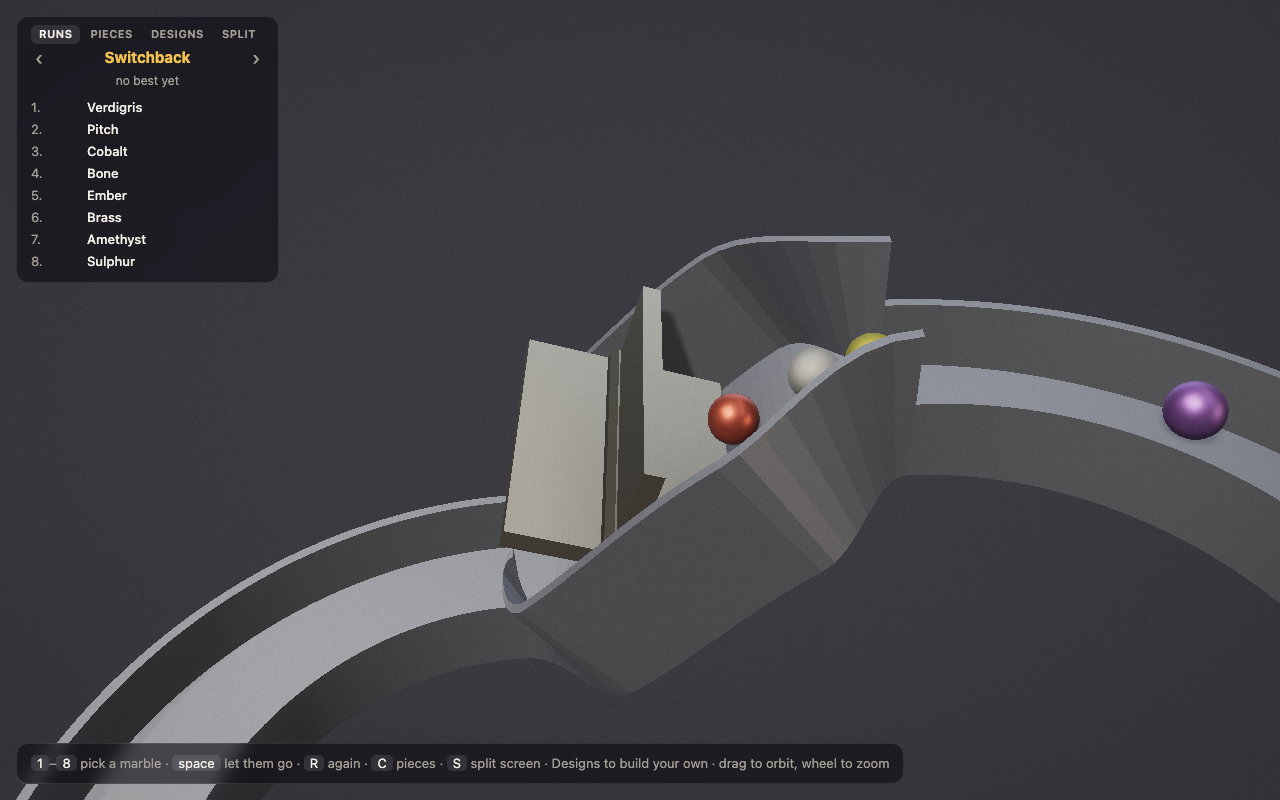
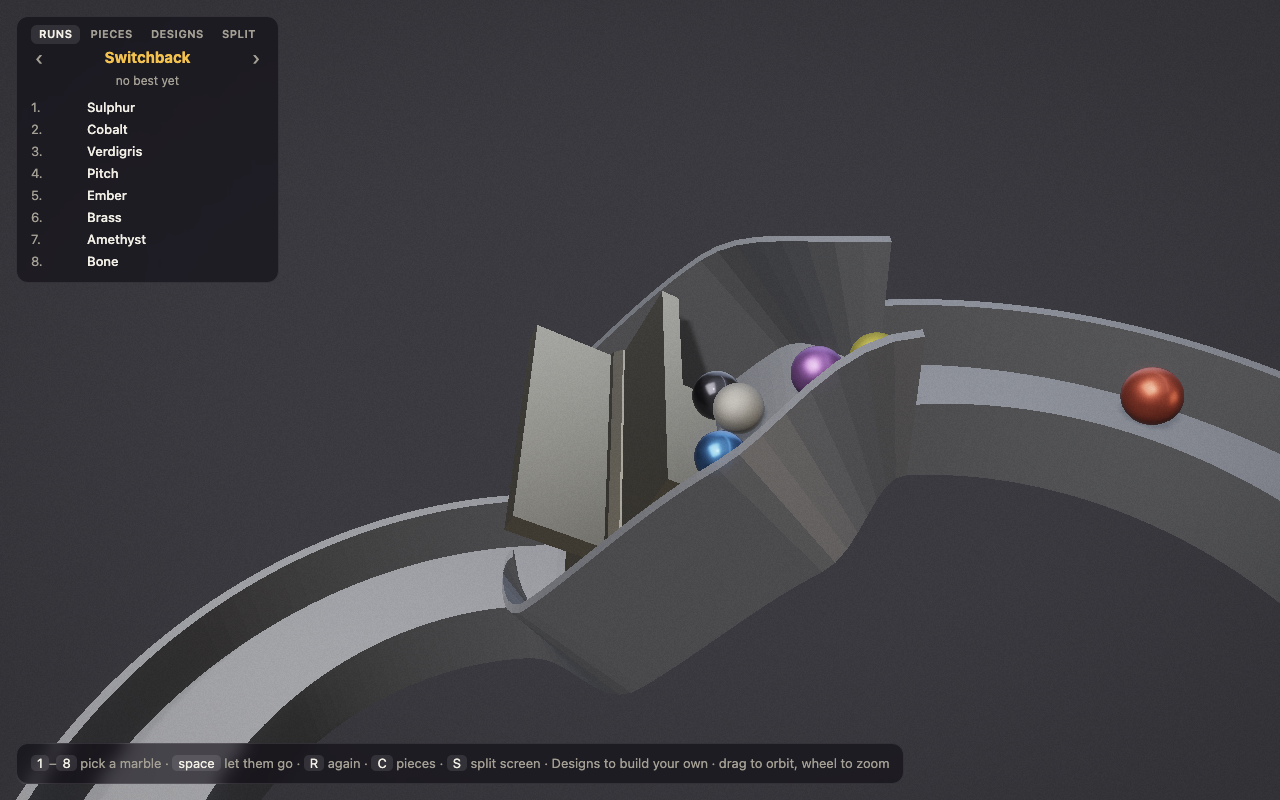
Switchback and the Stress Test are re-laid so nothing on them lets the field by unchanged, and bumps boards are held to that too
Every run was a race and not a procession under physics, but two runs had a
peg board that kept the order it was handed over the judged runs' 0.85.
Switchback's second board, at 0.93: the field came off the bend before it in
single file along the outside wall, and identical balls in one line strike
the cones alike and leave in the same order. It is a sweeper now, whose
paddle crosses the stream at its own moment, and keeps 0.72. The Stress
Test's late peg and bumps boards, at 0.93 to 1.00: the field reaches them
strung out over seconds and passes each one ball at a time. They are plain
wide shallows now, and its bumps and pegs stand at the head of the run,
where the field is still bunched off the gate, keeping 0.69 and 0.58; there
is room there for two, and the sweeper, on three other runs, gave way to
the bumps, on no other.

The judged rule counts mounds as well as pegs, moving parts and funnels,
which is what showed the late bumps boards reading 1.00. Both runs take new
ids (switchback-4, stress-test-3), since their races changed, and the pace
baseline is written for them: Switchback 4.97 -> 4.74 min, the Stress Test
24.43 -> 21.75, both within the gate's fifth of the old figure. The wheel
picture on Switchback was written again and looked at: a second moving part
draws the wheel's phase differently from the seed.

Tried and not taken: changing the rule to count only balls on a board at
the same moment, which still read Switchback's board at 0.93, and bumps in
[…]

diff --git a/src/runs.ts b/src/runs.ts
@@ -104,10 +104,14 @@ export const LEAP: Run = {
 
 /**
  * The long one: down the hill in drops and ramps, turning back on itself
- * again and again, over two peg boards, under a wheel, and round a spiral.
+ * again and again, over a peg board, under a wheel, round a spiral and
+ * across a sweeper. The sweeper was a second peg board, which the field
+ * reached in single file along the outside of the bend before it, and
+ * identical balls in one line strike cones alike: it kept their order at
+ * 0.93. A paddle swinging across the stream at its own moment keeps 0.72.
  */
 export const SWITCHBACK: Run = {
-  id: 'switchback-3',
+  id: 'switchback-4',
   name: 'Switchback',
   pieces: [
     { kind: 'start', x: 0, y: 0, z: 0, facing: 0 },
@@ -125,7 +129,7 @@ export const SWITCHBACK: Run = {
     { kind: 'ramp', x: 5, y: -7, z: -9, facing: 3 },
     { kind: 'spiralRight', x: 5, y: -8, z: -10, facing: 3 },
     { kind: 'curveRight', x: 5, y: -8, z: -12, facing: 3 },
-    { kind: 'pegs', x: 4, y: -9, z: -12, facing: 2 },
+    { kind: 'sweeper', x: 4, y: -9, z: -12, facing: 2 },
     { kind: 'curveLeft', x: 2, y: -9, z: -13, facing: 2 },
     { kind: 'ramp', x: 1, y: -10, z: -13, facing: 3 },
     { kind: 'straight', x: 1, y: -11, z: -14, facing: 3 },
@@ -186,28 +190,30 @@ export const CROSSING: Run = {
 
 /**
  * The stress test: a hundred pieces, `MAX_PIECES`'s own ceiling, and every
- * kind of piece the catalog has, at least once. Folded into a box with
+ * kind of piece the catalog has but the sweeper. Folded into a box with
  * turns rather than run straight out — laid out end to end the first time,
  * it needed a camera three hundred units further back than any other run
  * and stood a sliver in the corner of the screen for it — so what carries
  * the length is depth, one level further down each turn, not width.
  *
- * Every piece with something in the way to break the field up sits early,
- * while the field is still off the gate and fresh, save the pegboards
- * scattered through the long middle for the fold's own sake: a splitter
- * and a joiner hand two equal lanes back on in lock step, exactly as evenly
- * spaced as they went in, and the first piece with something in the way to
- * meet that field reads as though it did nothing, whatever it is — moved
- * once, tried right after the joiner and failing there however it was
- * built around, not tuned in place. The pegboards sit before the fork
- * instead, and nothing stands between the joiner and the cup.
+ * Every piece with something in the way sits early, while the field is
+ * still off the gate and bunched: a board met by a field strung out over
+ * seconds is passed one ball at a time, and keeps the order it was handed.
+ * The peg and bumps boards once scattered through the long middle kept it
+ * at 0.93 to 1.00, and are plain wide shallows now. The two early boards,
+ * the bumps and the pegs, were the sweeper and the pegs, and there is room
+ * for only two while the field is bunched: the sweeper is on three other
+ * runs, and bumps on no other. Nothing with something in the way stands
+ * after the fork either: a splitter and a joiner hand two equal lanes back
+ * on in lock step, and the first thing to meet that field read as though it
+ * did nothing, whatever it was.
  */
 export const STRESS: Run = {
-  id: 'stress-test-2',
+  id: 'stress-test-3',
   name: 'Stress Test',
   pieces: [
     { kind: 'start', x: 0, y: 0, z: 0, facing: 0 },
-    { kind: 'sweeper', x: 1, y: 0, z: -1, facing: 0 },
+    { kind: 'bumps', x: 1, y: 0, z: -1, facing: 0 },
     { kind: 'curveRight', x: 3, y: 0, z: -2, facing: 0 },
     { kind: 'pegs', x: 4, y: -1, z: -2, facing: 3 },
     { kind: 'curveLeft', x: 4, y: -3, z: -3, facing: 3 },
@@ -232,57 +238,57 @@ export const STRESS: Run = {
     { kind: 'narrow', x: 13, y: -14, z: -18, facing: 3 },
     { kind: 'curveRight', x: 13, y: -16, z: -19, facing: 3 },
     { kind: 'drop', x: 12, y: -17, z: -19, facing: 2 },
-    { kind: 'pegs', x: 11, y: -17, z: -21, facing: 2 },
+    { kind: 'shallowWide', x: 11, y: -17, z: -21, facing: 2 },
     { kind: 'drop', x: 9, y: -17, z: -22, facing: 2 },
     { kind: 'curveRight', x: 8, y: -17, z: -24, facing: 2 },
     { kind: 'curveRight', x: 7, y: -16, z: -24, facing: 1 },
     { kind: 'ramp', x: 8, y: -15, z: -24, facing: 0 },
-    { kind: 'bumps', x: 9, y: -15, z: -25, facing: 0 },
+    { kind: 'shallowWide', x: 9, y: -15, z: -25, facing: 0 },
     { kind: 'ramp', x: 11, y: -15, z: -26, facing: 0 },
     { kind: 'curveLeft', x: 12, y: -15, z: -27, facing: 0 },
     { kind: 'curveLeft', x: 13, y: -14, z: -27, facing: 1 },
     { kind: 'drop', x: 12, y: -13, z: -27, facing: 2 },
-    { kind: 'bumps', x: 11, y: -13, z: -29, facing: 2 },
+    { kind: 'shallowWide', x: 11, y: -13, z: -29, facing: 2 },
     { kind: 'drop', x: 9, y: -13, z: -30, facing: 2 },
     { kind: 'curveRight', x: 8, y: -13, z: -32, facing: 2 },
     { kind: 'curveRight', x: 7, y: -12, z: -32, facing: 1 },
     { kind: 'ramp', x: 8, y: -11, z: -32, facing: 0 },
-    { kind: 'pegs', x: 9, y: -11, z: -33, facing: 0 },
+    { kind: 'shallowWide', x: 9, y: -11, z: -33, facing: 0 },
     { kind: 'ramp', x: 11, y: -11, z: -34, facing: 0 },
     { kind: 'curveLeft', x: 12, y: -11, z: -35, facing: 0 },
     { kind: 'curveLeft', x: 13, y: -10, z: -35, facing: 1 },
     { kind: 'drop', x: 12, y: -9, z: -35, facing: 2 },
-    { kind: 'pegs', x: 11, y: -9, z: -37, facing: 2 },
+    { kind: 'shallowWide', x: 11, y: -9, z: -37, facing: 2 },
     { kind: 'drop', x: 9, y: -9, z: -38, facing: 2 },
     { kind: 'curveRight', x: 8, y: -9, z: -40, facing: 2 },
     { kind: 'curveRight', x: 7, y: -8, z: -40, facing: 1 },
     { kind: 'ramp', x: 8, y: -7, z: -40, facing: 0 },
-    { kind: 'bumps', x: 9, y: -7, z: -41, facing: 0 },
+    { kind: 'shallowWide', x: 9, y: -7, z: -41, facing: 0 },
     { kind: 'ramp', x: 11, y: -7, z: -42, facing: 0 },
     { kind: 'curveLeft', x: 12, y: -7, z: -43, facing: 0 },
     { kind: 'curveLeft', x: 13, y: -6, z: -43, facing: 1 },
     { kind: 'drop', x: 12, y: -5, z: -43, facing: 2 },
-    { kind: 'bumps', x: 11, y: -5, z: -45, facing: 2 },
+    { kind: 'shallowWide', x: 11, y: -5, z: -45, facing: 2 },
     { kind: 'drop', x: 9, y: -5, z: -46, facing: 2 },
     { kind: 'curveRight', x: 8, y: -5, z: -48, facing: 2 },
     { kind: 'curveRight', x: 7, y: -4, z: -48, facing: 1 },
     { kind: 'ramp', x: 8, y: -3, z: -48, facing: 0 },
-    { kind: 'pegs', x: 9, y: -3, z: -49, facing: 0 },
+    { kind: 'shallowWide', x: 9, y: -3, z: -49, facing: 0 },
     { kind: 'ramp', x: 11, y: -3, z: -50, facing: 0 },
     { kind: 'curveLeft', x: 12, y: -3, z: -51, facing: 0 },
     { kind: 'curveLeft', x: 13, y: -2, z: -51, facing: 1 },
     { kind: 'drop', x: 12, y: -1, z: -51, facing: 2 },
-    { kind: 'pegs', x: 11, y: -1, z: -53, facing: 2 },
+    { kind: 'shallowWide', x: 11, y: -1, z: -53, facing: 2 },
     { kind: 'drop', x: 9, y: -1, z: -54, facing: 2 },
     { kind: 'curveRight', x: 8, y: -1, z: -56, facing: 2 },
     { kind: 'curveRight', x: 7, y: 0, z: -56, facing: 1 },
     { kind: 'ramp', x: 8, y: 1, z: -56, facing: 0 },
-    { kind: 'bumps', x: 9, y: 1, z: -57, facing: 0 },
+    { kind: 'shallowWide', x: 9, y: 1, z: -57, facing: 0 },
     { kind: 'ramp', x: 11, y: 1, z: -58, facing: 0 },
     { kind: 'curveLeft', x: 12, y: 1, z: -59, facing: 0 },
     { kind: 'curveLeft', x: 13, y: 2, z: -59, facing: 1 },
     { kind: 'drop', x: 12, y: 3, z: -59, facing: 2 },
-    { kind: 'bumps', x: 11, y: 3, z: -61, facing: 2 },
+    { kind: 'shallowWide', x: 11, y: 3, z: -61, facing: 2 },
     { kind: 'drop', x: 9, y: 3, z: -62, facing: 2 },
     { kind: 'splitter', x: 8, y: 3, z: -64, facing: 2 },
     { kind: 'straight', x: 7, y: 3, z: -64, facing: 2 },

diff --git a/test/physics-judged.ts b/test/physics-judged.ts
@@ -26,10 +26,12 @@ export function judgesRun(k: number): void {
   const run = RUNS[k];
   describe(`${run.name}, judged under physics over ${JUDGED} races`, () => {
     const track = compile(run);
-    // the pieces with something in the way, and for each how far the order the field left it in followed the
+    // the pieces with something in the way, mounds included, and for each how far the order the field left it in followed the
     // order it came on to it in, on average; how far the finishing order followed the grid, summed; how often the
     // back half of the grid won; and what went wrong in any race
-    const inTheWay = track.segments.flatMap((s, i) => (s.obstacles.length > 0 || s.funnel ? [i] : []));
+    const inTheWay = track.segments.flatMap((s, i) =>
+      s.obstacles.length > 0 || s.funnel || s.mounds.length > 0 ? [i] : [],
+    );
     const kept = new Map(inTheWay.map((s) => [s, 0]));
     let follows = 0,
       fromTheBack = 0;
